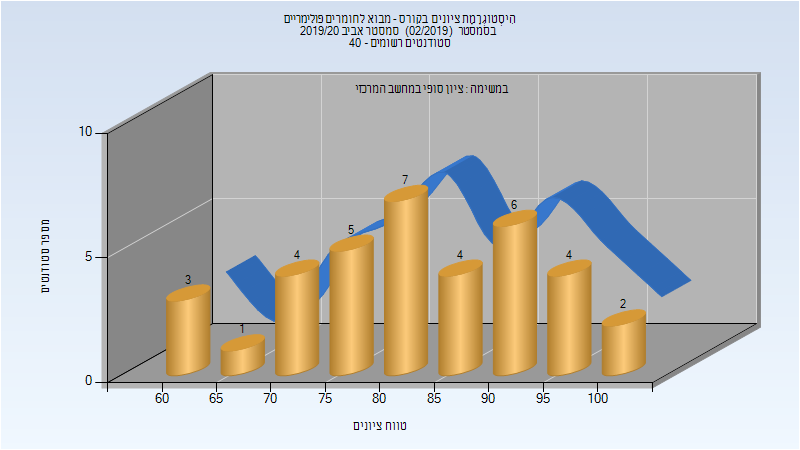
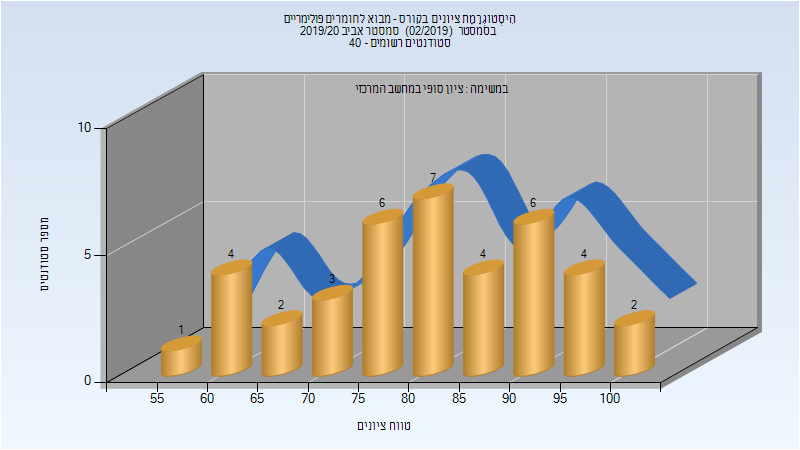
Deploy michael-maltsev/technion-histograms to github.com/michael-maltsev/technion-histograms.git:gh-pages

diff --git a/315030/index.html b/315030/index.html
@@ -324,6 +324,32 @@
 </tr>
 </tbody>
 </table>
+<h3>סופי מועד ב'</h3>
+<p><img src="201902/Final_B.png" alt="201902 Final_B" /></p>
+<table>
+<thead>
+<tr>
+<th>סטודנטים</th>
+<th>עברו/נכשלו</th>
+<th>אחוז עוברים</th>
+<th>ציון מינימלי</th>
+<th>ציון מקסימלי</th>
+<th>ממוצע</th>
+<th>חציון</th>
+</tr>
+</thead>
+<tbody>
+<tr>
+<td>19</td>
+<td>14/5</td>
+<td>74</td>
+<td>42</td>
+<td>84</td>
+<td>61.842</td>
+<td>58</td>
+</tr>
+</tbody>
+</table>
 <h3>סופי</h3>
 <p><img src="201902/Finals.png" alt="201902 Finals" /></p>
 <table>
@@ -340,13 +366,13 @@
 </thead>
 <tbody>
 <tr>
-<td>34</td>
-<td>27/7</td>
-<td>79</td>
-<td>35</td>
+<td>42</td>
+<td>37/5</td>
+<td>88</td>
+<td>42</td>
 <td>100</td>
-<td>71.941</td>
-<td>74.5</td>
+<td>71.5</td>
+<td>73</td>
 </tr>
 </tbody>
 </table>

diff --git a/314312/index.html b/314312/index.html
@@ -348,13 +348,13 @@
 </thead>
 <tbody>
 <tr>
-<td>36</td>
-<td>36/0</td>
+<td>39</td>
+<td>39/0</td>
 <td>100</td>
-<td>61</td>
+<td>57</td>
 <td>100</td>
-<td>83.083</td>
-<td>83.5</td>
+<td>81.564</td>
+<td>83</td>
 </tr>
 </tbody>
 </table>

diff --git a/127442/index.html b/127442/index.html
@@ -279,12 +279,12 @@
 </thead>
 <tbody>
 <tr>
-<td>57</td>
-<td>57/0</td>
+<td>58</td>
+<td>58/0</td>
 <td>100</td>
 <td>75</td>
 <td>100</td>
-<td>93.842</td>
+<td>93.603</td>
 <td>94</td>
 </tr>
 </tbody>

diff --git a/315030/README.md b/315030/README.md
@@ -96,11 +96,19 @@
 | ---- | ---- | ---- | ---- | ---- | ---- | ---- |
 | 34 | 27/7 | 79 | 35 | 100 | 71.912 | 74.5 |
 
+### סופי מועד ב'
+
+![201902 Final_B](201902/Final_B.png)
+
+| סטודנטים | עברו/נכשלו | אחוז עוברים | ציון מינימלי | ציון מקסימלי | ממוצע | חציון |
+| ---- | ---- | ---- | ---- | ---- | ---- | ---- |
+| 19 | 14/5 | 74 | 42 | 84 | 61.842 | 58 |
+
 ### סופי
 
 ![201902 Finals](201902/Finals.png)
 
 | סטודנטים | עברו/נכשלו | אחוז עוברים | ציון מינימלי | ציון מקסימלי | ממוצע | חציון |
 | ---- | ---- | ---- | ---- | ---- | ---- | ---- |
-| 34 | 27/7 | 79 | 35 | 100 | 71.941 | 74.5 |
+| 42 | 37/5 | 88 | 42 | 100 | 71.5 | 73 |
 

diff --git a/314312/README.md b/314312/README.md
@@ -104,5 +104,5 @@
 
 | סטודנטים | עברו/נכשלו | אחוז עוברים | ציון מינימלי | ציון מקסימלי | ממוצע | חציון |
 | ---- | ---- | ---- | ---- | ---- | ---- | ---- |
-| 36 | 36/0 | 100 | 61 | 100 | 83.083 | 83.5 |
+| 39 | 39/0 | 100 | 57 | 100 | 81.564 | 83 |
 

diff --git a/127442/README.md b/127442/README.md
@@ -86,5 +86,5 @@
 
 | סטודנטים | עברו/נכשלו | אחוז עוברים | ציון מינימלי | ציון מקסימלי | ממוצע | חציון |
 | ---- | ---- | ---- | ---- | ---- | ---- | ---- |
-| 57 | 57/0 | 100 | 75 | 100 | 93.842 | 94 |
+| 58 | 58/0 | 100 | 75 | 100 | 93.603 | 94 |
 
